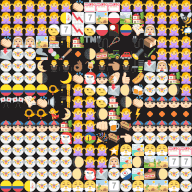
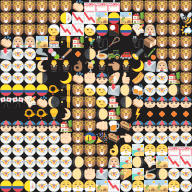
fixed shortcircuiting; now things are in a reliable state

diff --git a/HybridMapgen2.cs b/HybridMapgen2.cs
@@ -46,7 +46,7 @@ namespace PetsciiMapgen
       int numYcomponents = Utils.Product(tilesPerCell);
       this.componentsPerCell = numYcomponents + 2; // number of dimensions
 
-      weights = new ValueSet(componentsPerCell, - 1);
+      weights = new ValueSet(componentsPerCell, 9997);
       this.weights[0] = UVweight / 2;
       this.weights[1] = UVweight / 2;
       for (int i = 0; i < numYcomponents; ++i)
@@ -65,7 +65,11 @@ namespace PetsciiMapgen
       Console.WriteLine("Number of source chars: " + Utils.ToString(numSrcChars));
       Console.WriteLine("Number of source chars (1d): " + Utils.Product(numSrcChars));
       Console.WriteLine("Chosen values per tile: " + valuesPerComponent);
+      Console.WriteLine("Dimensions: " + componentsPerCell);
       Console.WriteLine("Resulting map will have this many entries: " + numDestCharacters);
+
+      //Console.WriteLine("\r\nhit a key to continue");
+      //Console.ReadKey();
 
       // fill in char source info (actual tile values)
       timings.EnterTask("Analyze incoming font");
@@ -119,18 +123,21 @@ namespace PetsciiMapgen
 
       // create list of all mapkeys
       timings.EnterTask("Generating permutations");
-      var keys = Utils.Permutate(componentsPerCell, Utils.GetDiscreteValues(valuesPerComponent)).ToArray(); // returns sorted.
+      var keys = Utils.Permutate(componentsPerCell, Utils.GetDiscreteValues(valuesPerComponent)); // returns sorted.
+
+      int lastDimensionIndex = componentsPerCell - 1;
+      //Utils.AssertSortedByDimension(keys, lastDimensionIndex);
 
       timings.EndTask();
       timings.EnterTask("Calculate all mappings");
 
       // - generate a list of all mappings and their distances
       // - accumulate versatility for chars
-      Console.WriteLine("  (" + (Utils.Product(numSrcChars) * (int)numDestCharacters) + " mappings)");
+      ulong theoreticalMappings = (ulong)Utils.Product(numSrcChars) * (ulong)numDestCharacters;
+      Console.WriteLine("  (" + theoreticalMappings + " mappings)");
       Utils.ValueRangeInspector distanceRange = new Utils.ValueRangeInspector();
-      var allMappings = new Mapping[Utils.Product(numSrcChars) * (int)numDestCharacters];
+      var allMappings = new Mapping[theoreticalMappings];
       int imap = 0;
-      int lastDimensionIndex = componentsPerCell - 2;
       UInt32 shortCircuitSavedEnd = 0;
       UInt32 shortCircuitSavedBegin = 0;
       for (UInt32 ici = 0; ici < charInfo.Count; ++ ici)
@@ -138,17 +145,31 @@ namespace PetsciiMapgen
         var ci = charInfo[(int)ici];
 
         float lastDimensionCharValue = ci.actualValues[lastDimensionIndex];
-        //UInt32 indexInDistRange = Utils.BinarySearchAny(keys, 0, (UInt32)keys.Length, mapKey =>
-        //{
-        //  float d = lastDimensionCharValue - mapKey[lastDimensionIndex];
-        //  if (Math.Abs(d)  Constants.MaxDimensionDist)
-        //    return 0;
-        //  return Math.Sign(d);
-        //});
+
+        // find literally any value that matches
+        UInt32 iKeyOrigin = 0;// = (UInt32)(keys.Length / 2);
+
+        // if our max dist is .5, then we should start at .5 in the list.right in the middle, because we're guaranteed it will match.
+        // if maxdist is .3, then we want to check ranges where maxdist will never be exceeded.
+        // that would be 0-.3, .3-.6. .6-.9, .9-1
+        // and maybe with just a bit of overlap in there, so shrink the window a bit.
+        UInt32 windowSize = (UInt32)(keys.Length * Constants.MaxDimensionDist * .9);
+        windowSize = Math.Min((UInt32)keys.Length / 3, windowSize);
+        for (iKeyOrigin = 0; iKeyOrigin < keys.Length; iKeyOrigin += windowSize)
+        {
+          float lastDimDist = Math.Abs(lastDimensionCharValue - keys[iKeyOrigin][lastDimensionIndex]);
+          if (lastDimDist <= Constants.MaxDimensionDist)
+          {
+            break;
+          }
+        }
+
+        if (iKeyOrigin >= keys.Length)
+          iKeyOrigin = (UInt32)keys.Length - 1;
 
         // walk left
-        UInt32 midindex = (UInt32)(keys.Length / 2);
-        for (UInt32 ikey = midindex; ; --ikey)
+        //float lastMapval = 1;
+        for (UInt32 ikey = iKeyOrigin; ; --ikey)
         {
           allMappings[imap].icharInfo = ici;
           allMappings[imap].imapKey = ikey;
@@ -163,6 +184,8 @@ namespace PetsciiMapgen
           imap++;
 
           float lastDimDist = Math.Abs(lastDimensionCharValue - keys[ikey][lastDimensionIndex]);
+          //Debug.Assert(keys[ikey][lastDimensionIndex] <= lastMapval);
+          //lastMapval = keys[ikey][lastDimensionIndex];
           if (lastDimDist > Constants.MaxDimensionDist)
           {
             shortCircuitSavedBegin += (uint)ikey;
@@ -174,7 +197,9 @@ namespace PetsciiMapgen
         }
 
         // walk right
-        for (UInt32 ikey = midindex + 1; ikey < keys.Length; ++ ikey)
+        //bool encountered = true;
+        //lastMapval = 0;
+        for (UInt32 ikey = iKeyOrigin + 1; ikey < keys.Length; ++ ikey)
         {
           allMappings[imap].icharInfo = ici;
           allMappings[imap].imapKey = ikey;
@@ -190,6 +215,8 @@ namespace PetsciiMapgen
           imap++;
 
           float lastDimDist = Math.Abs(lastDimensionCharValue - keys[ikey][lastDimensionIndex]);
+          //Debug.Assert(keys[ikey][lastDimensionIndex] >= lastMapval);
+          //lastMapval = keys[ikey][lastDimensionIndex];
           if (lastDimDist > Constants.MaxDimensionDist)
           {
             shortCircuitSavedEnd += (uint)keys.Length - ikey;
@@ -226,9 +253,9 @@ namespace PetsciiMapgen
         maxMinDist = Math.Max(maxMinDist, mapKey.MinDistFound);
       }
       Console.WriteLine("Max minimum distance found: {0}", maxMinDist);
-      var crm = allMappings.Count(o => o.dist <= maxMinDist);
-      Console.WriteLine(" -> items to keep: {0}", crm);
-      Console.WriteLine(" -> items to remove: {0}", allMappings.Count() - crm);
+      //var crm = allMappings.Count(o => o.dist <= maxMinDist);
+      //Console.WriteLine(" -> items to keep: {0}", crm);
+      //Console.WriteLine(" -> items to remove: {0}", allMappings.Count() - crm);
 
       timings.EndTask();
 
@@ -321,10 +348,10 @@ namespace PetsciiMapgen
             continue;
           }
           //CharInfo ci = map[k];
-          int cellY = k.ID / numCellsX;
-          int cellX = k.ID - (numCellsX * cellY);
+          ulong cellY = k.ID / (ulong)numCellsX;
+          ulong cellX = k.ID - ((ulong)numCellsX * cellY);
           Rectangle srcRect = new Rectangle(ci.srcIndex.X * charSize.Width, ci.srcIndex.Y * charSize.Height, charSize.Width, charSize.Height);
-          g.DrawImage(srcBmp, cellX * charSize.Width, cellY * charSize.Height, srcRect, GraphicsUnit.Pixel);
+          g.DrawImage(srcBmp, (int)(cellX * (ulong)charSize.Width), (int)(cellY * (ulong)charSize.Height), srcRect, GraphicsUnit.Pixel);
         }
       }
 
@@ -402,7 +429,7 @@ namespace PetsciiMapgen
 
       using (var g = Graphics.FromImage(destImg))
       {
-        ValueSet vals = new ValueSet(componentsPerCell,- 1);
+        ValueSet vals = new ValueSet(componentsPerCell, 9995);
         // roughly simulate the shader algo
         for (int srcCellY = 0; srcCellY < testImg.Height / charSize.Height; ++srcCellY)
         {

diff --git a/Utils.cs b/Utils.cs
@@ -22,7 +22,7 @@ namespace PetsciiMapgen
     // funny that's actually 360. no relation to angles/radians.
     public static UInt32 DistanceRange { get { return 360; } }
 
-    public static float MaxDimensionDist {  get { return .7f; } }// must be above .5!
+    public static float MaxDimensionDist {  get { return .1f; } }
   }
 
   public class CharInfo
@@ -37,7 +37,7 @@ namespace PetsciiMapgen
 
     public CharInfo(int dimensionsPerCharacter)
     {
-      actualValues = new ValueSet(dimensionsPerCharacter, -1);
+      actualValues = new ValueSet(dimensionsPerCharacter, 9999);
     }
 
     public override string ToString()
@@ -93,7 +93,7 @@ namespace PetsciiMapgen
   // simplifies code that wants to do set operations.
   public class ValueSet : IComparable<ValueSet>, IEqualityComparer<ValueSet>
   {
-    public ValueSet(int capacity, int id)
+    public ValueSet(int capacity, UInt64 id)
     {
       _values = new float[capacity];
       _id = id;
@@ -101,14 +101,14 @@ namespace PetsciiMapgen
 
     //List<double> values = new List<double>();
     float[] _values;
-    int _id;
+    UInt64 _id;
 
     // optimizations
     public bool Mapped { get; set; } = false;
     public uint MinDistFound { get; set; } = uint.MaxValue;
 
     public int Length { get { return _values.Length; } }
-    public int ID { get { return _id; } }
+    public UInt64 ID { get { return _id; } }
 
     public float this[int i]
     {
@@ -453,29 +453,30 @@ namespace PetsciiMapgen
     // returns all possible combinations of tile values.
     // this sets the ID for the resulting ValueSets which is an ordered number,
     // required for the un-mapping algo to know where things are.
-    public static IEnumerable<ValueSet> Permutate(int numTiles, ValueSet discreteValuesPerTile)
+    public static ValueSet[] Permutate(int numTiles, ValueSet discreteValuesPerTile)
     {
       // we will just do this as if each value is a digit in a number. that's the analogy that drives this.
       // actually this symbolizes the # of digits in the result, PLUS the number of possible values per digit.
-      int numDigits = discreteValuesPerTile.Length;
-      int theoreticalBase = numDigits;
+      UInt64 numDigits = (UInt64)discreteValuesPerTile.Length;
+      UInt64 theoreticalBase = numDigits;
       double dtp = Math.Pow(numDigits, numTiles);
-      int totalPermutations = (int)dtp;
+      UInt64 totalPermutations = (UInt64)dtp;
+
       List<ValueSet> ret = new List<ValueSet>();
-      for (int i = 0; i < totalPermutations; ++i)
+      for (UInt64 i = 0; i < totalPermutations; ++i)
       {
         // just like digits in a number, use % and divide to shave off "digits" one by one.
-        int a = i;// the value that originates from i and we shift/mod to enumerate digits
+        UInt64 a = i;// the value that originates from i and we shift/mod to enumerate digits
         ValueSet n = new ValueSet(numTiles, i);
         for (int d = 0; d < numTiles; ++d)
         {
-          int thisIndex = a % theoreticalBase;
+          UInt64 thisIndex = a % theoreticalBase;
           a /= theoreticalBase;
-          n[d] = discreteValuesPerTile[thisIndex];
+          n[d] = discreteValuesPerTile[(int)thisIndex];
         }
         ret.Add(n);
       }
-      return ret;
+      return ret.ToArray();
     }
 
 
@@ -499,7 +500,7 @@ namespace PetsciiMapgen
     {
       // returning [0, 1] for 2 discrete values. [0,.5,1] for 3, etc.
       float segSpan = 1.0f / (discreteValues - 1);
-      var ret = new ValueSet(discreteValues, - 1);
+      var ret = new ValueSet(discreteValues, 9998);
       int i = 0;
       for (float v = 0; v <= 1.0001f; v += segSpan)
       {
@@ -509,6 +510,16 @@ namespace PetsciiMapgen
       return ret;
     }
 
+    internal static void AssertSortedByDimension(ValueSet[] keys, int lastDimensionIndex)
+    {
+      float lastVal = 0;
+      for (int i = 0; i < keys.Length; ++i)
+      {
+        float lastDimensionValue = keys[i][lastDimensionIndex];
+        Debug.Assert(lastDimensionValue >= lastVal);
+        lastVal = lastDimensionValue;
+      }
+    }
   }
 }
 

diff --git a/Program.cs b/Program.cs
@@ -19,6 +19,13 @@ namespace PetsciiMapgen
       Timings t = new Timings();
       t.EnterTask("---");
 
+      ValueSet br = new ValueSet(3, 0);
+      br[0] = 4;
+      br[1] = 5;
+      br[2] = 6;
+      var t2 = Utils.Permutate(3, br);
+      Utils.AssertSortedByDimension(t2, 2);
+
       var map = new HybridMap2("..\\..\\img\\fonts\\emojidark12.png", new Size(12, 12), new Size(2, 2), 5, 0.65f, 0.35f, true);
 
       //var map = HybridMap2.Load("..\\..\\img\\maps\\mapHybrid-emoji12x12-2x2x6.png", new Size(12, 12), new Size(2, 2), 6);
